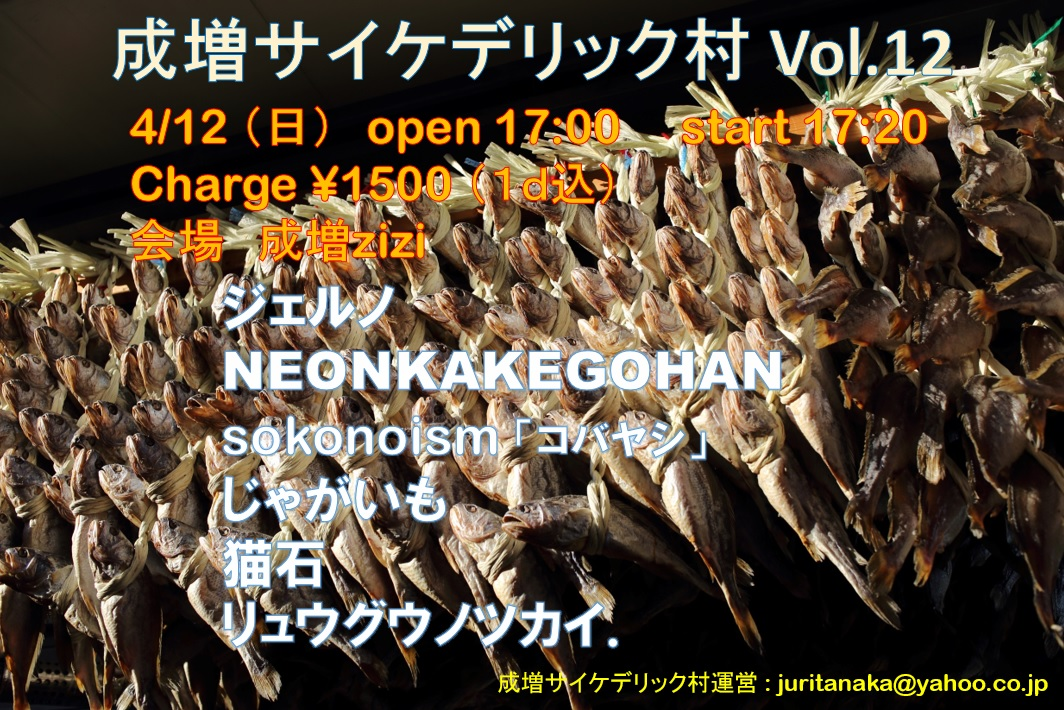
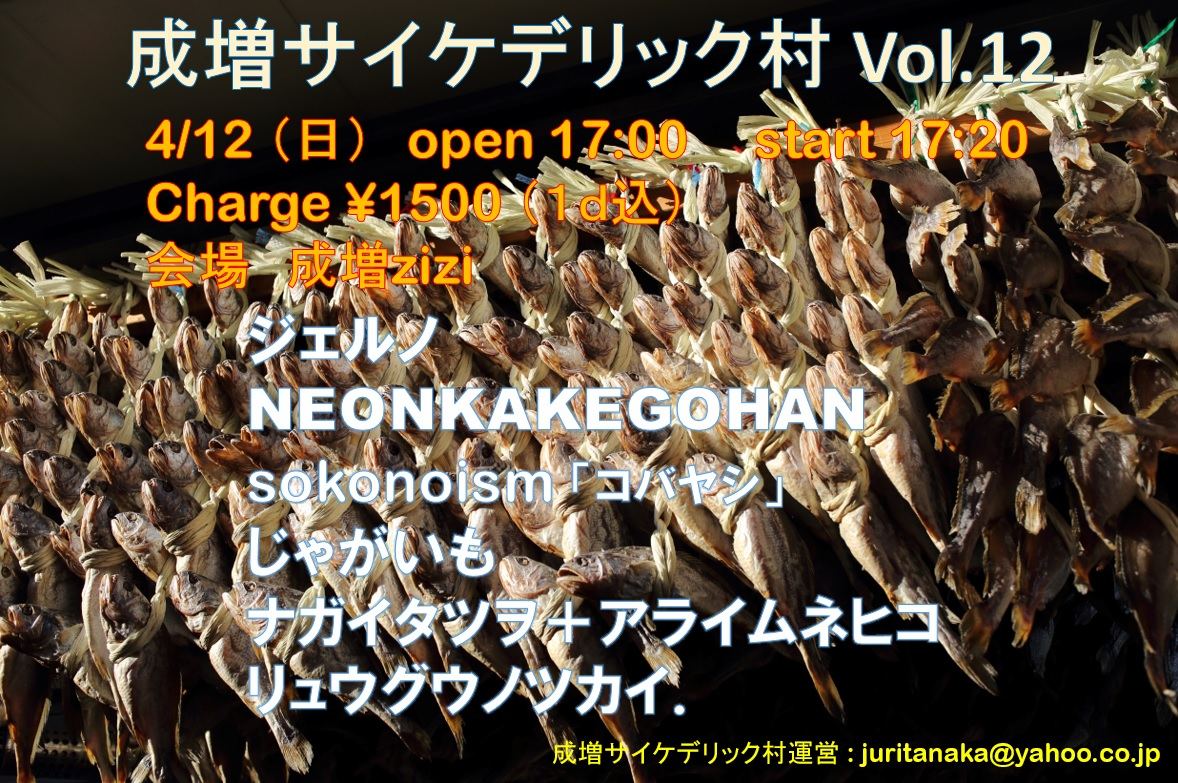
update

diff --git a/index.html b/index.html
@@ -53,7 +53,7 @@
     17:45-18:05 ジェルノ<br>
     18:10-18:35 sokonoism「コバヤシ」<br>
     18:45-19:10 NEONKAKEGOHAN<br>
-    19:20-19:50 猫石<br>
+    19:20-19:50 ナガイタツヲ＋アライムネヒコ<br>
     20:00-20:30 リュウグウノツカイ.  <br>  
     </p>
     <img src="images/np_012.jpg" alt="np_012" title="np_012">
